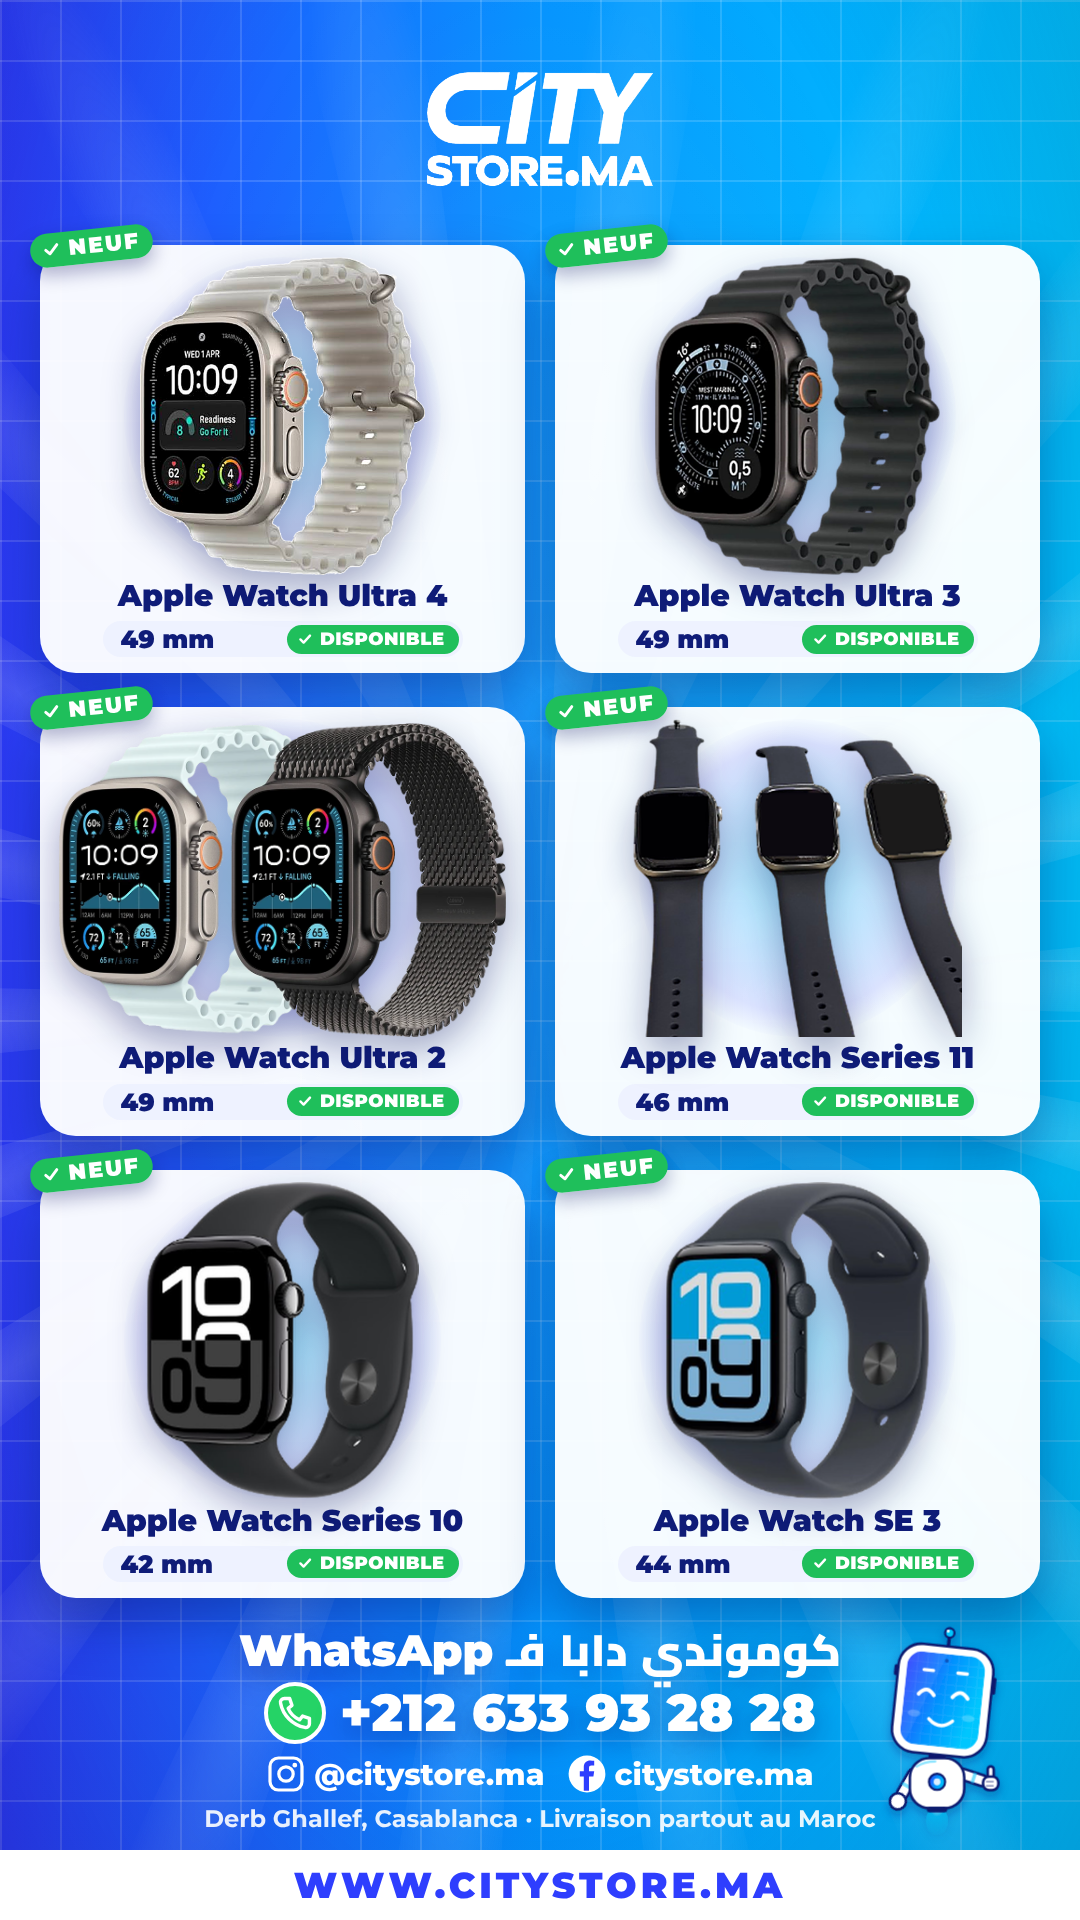
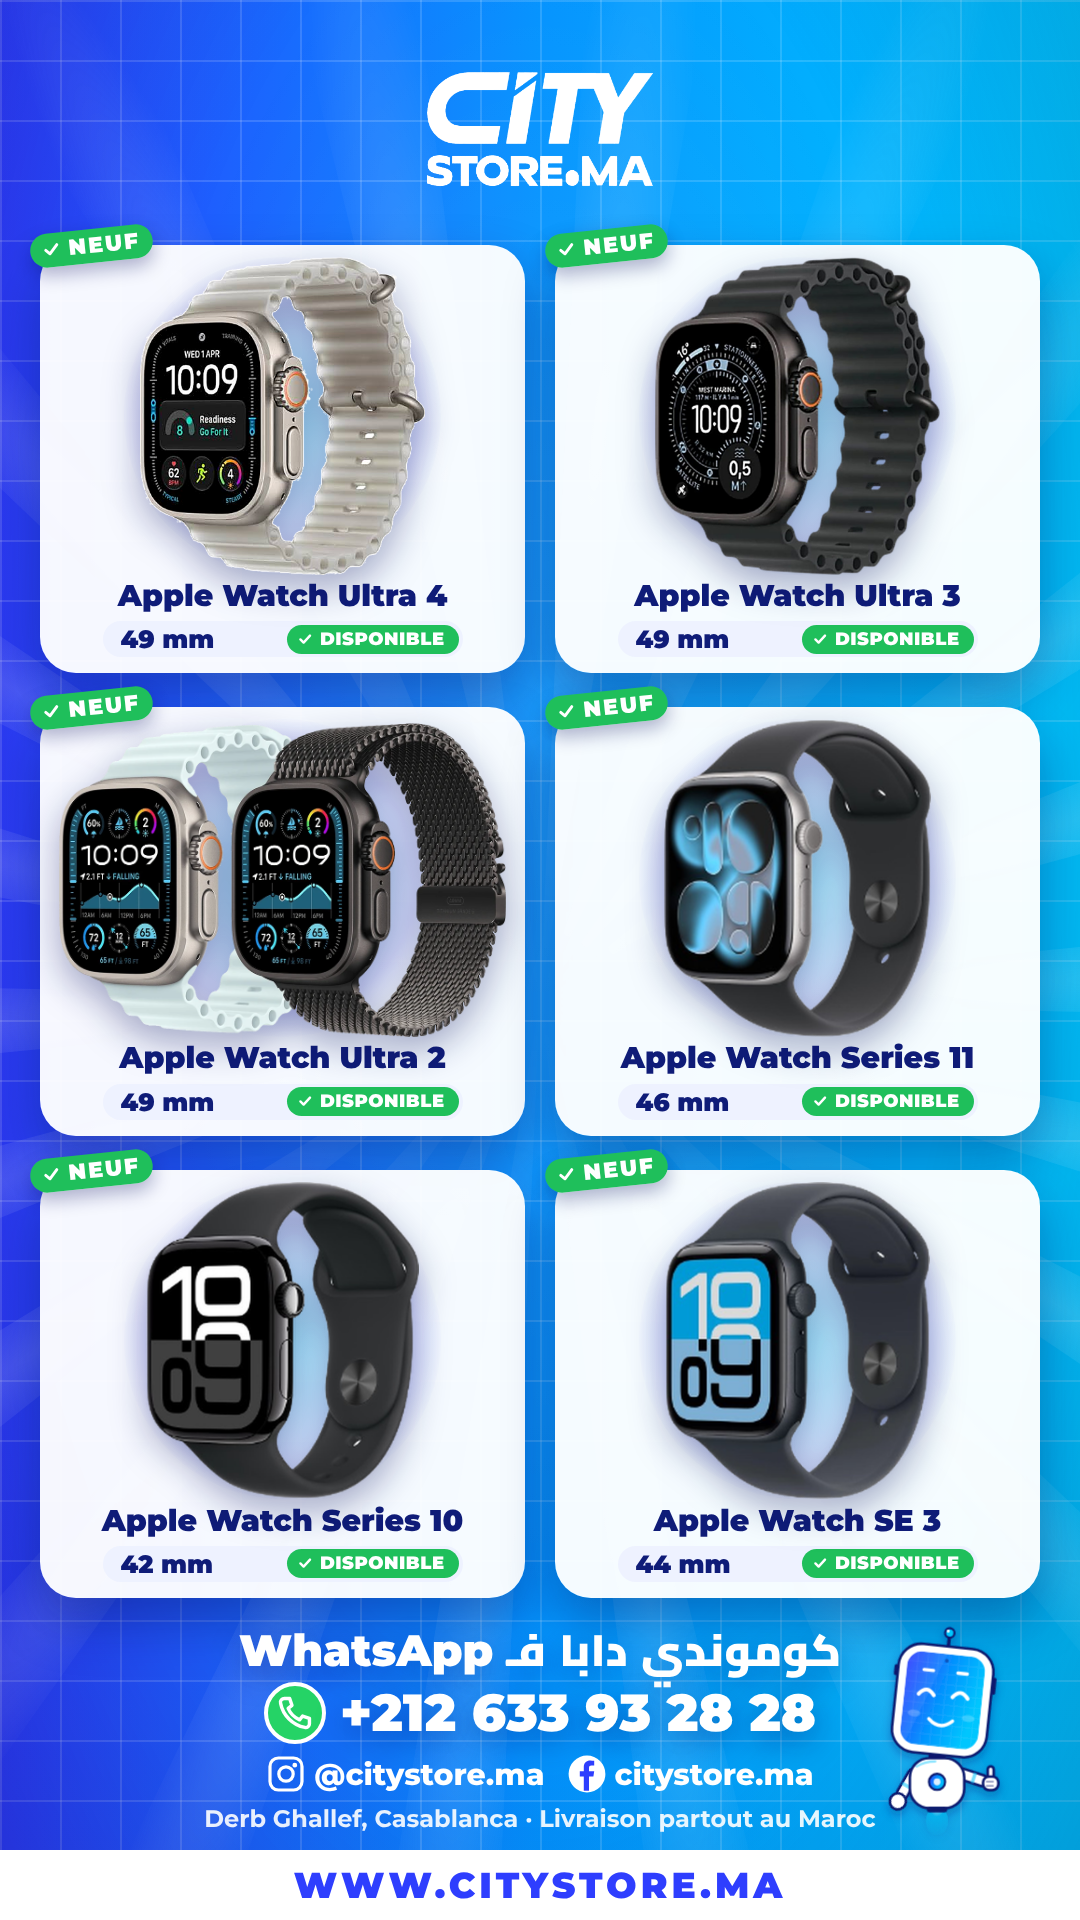
Apple Watch story: official Series 11 image
Claude-Session: https://claude.ai/code/session_01B6UvVnyVQqoyQ1GwELGaCV

Changed region(s): [[0.5806, 0.375, 0.9167, 0.5625]]

diff --git a/src/pricelist/lists.ts b/src/pricelist/lists.ts
@@ -40,7 +40,7 @@ export const PRICE_LISTS: Record<string, PriceListProps> = {
       { name: "Apple Watch Ultra 4", img: "ultra4/products/angle.png", stock: ["49 mm"] },
       { name: "Apple Watch Ultra 3", img: "ultra3/products/angle.png", stock: ["49 mm"] },
       { name: "Apple Watch Ultra 2", img: "pricelist/watches/ultra2.png", stock: ["49 mm"] },
-      { name: "Apple Watch Series 11", img: "watch11/products/setup.png", stock: ["46 mm"] },
+      { name: "Apple Watch Series 11", img: "pricelist/watches/series11.png", stock: ["46 mm"] },
       { name: "Apple Watch Series 10", img: "pricelist/watches/series10.png", stock: ["42 mm"] },
       { name: "Apple Watch SE 3", img: "pricelist/watches/se3.png", stock: ["44 mm"] },
     ].map((p) => ({ ...p, condition: "neuf" as const })),

diff --git a/assets/pricelist/watches/SOURCES.md b/assets/pricelist/watches/SOURCES.md
@@ -2,7 +2,7 @@
 - Ultra 4 (Natural Titanium): `public/ultra4/products/angle.png` (official render from the Ultra 4 reel).
 - Ultra 3 (black): `public/ultra3/products/angle.png` (official render from the Ultra 3 reel).
 - Ultra 2: `src/apple_watch_ultra2_natural_black.webp` (supplied by City Store, natural + black) -> `ultra2.png` (trimmed).
-- Series 11: `public/watch11/products/setup.png` (cut-out of City Store's shop photo from the Series 11 reel; screens off).
+- Series 11: `src/apple_watch_series11.png` (supplied, 301 px) -> `series11.png` (trimmed, upscaled 3x).
 - Series 10: `src/apple_watch_series10_jetblack.png` (supplied, 301 px) -> `series10.png` (trimmed, upscaled 3x).
 - SE 3: `src/apple_watch_se3_midnight.png` (supplied, 301 px) -> `se3.png` (trimmed, upscaled 3x).
 Sizes as given by City Store: Ultra 4 / 3 / 2: 49 mm; Series 11: 46 mm; Series 10: 42 mm; SE 3: 44 mm.
